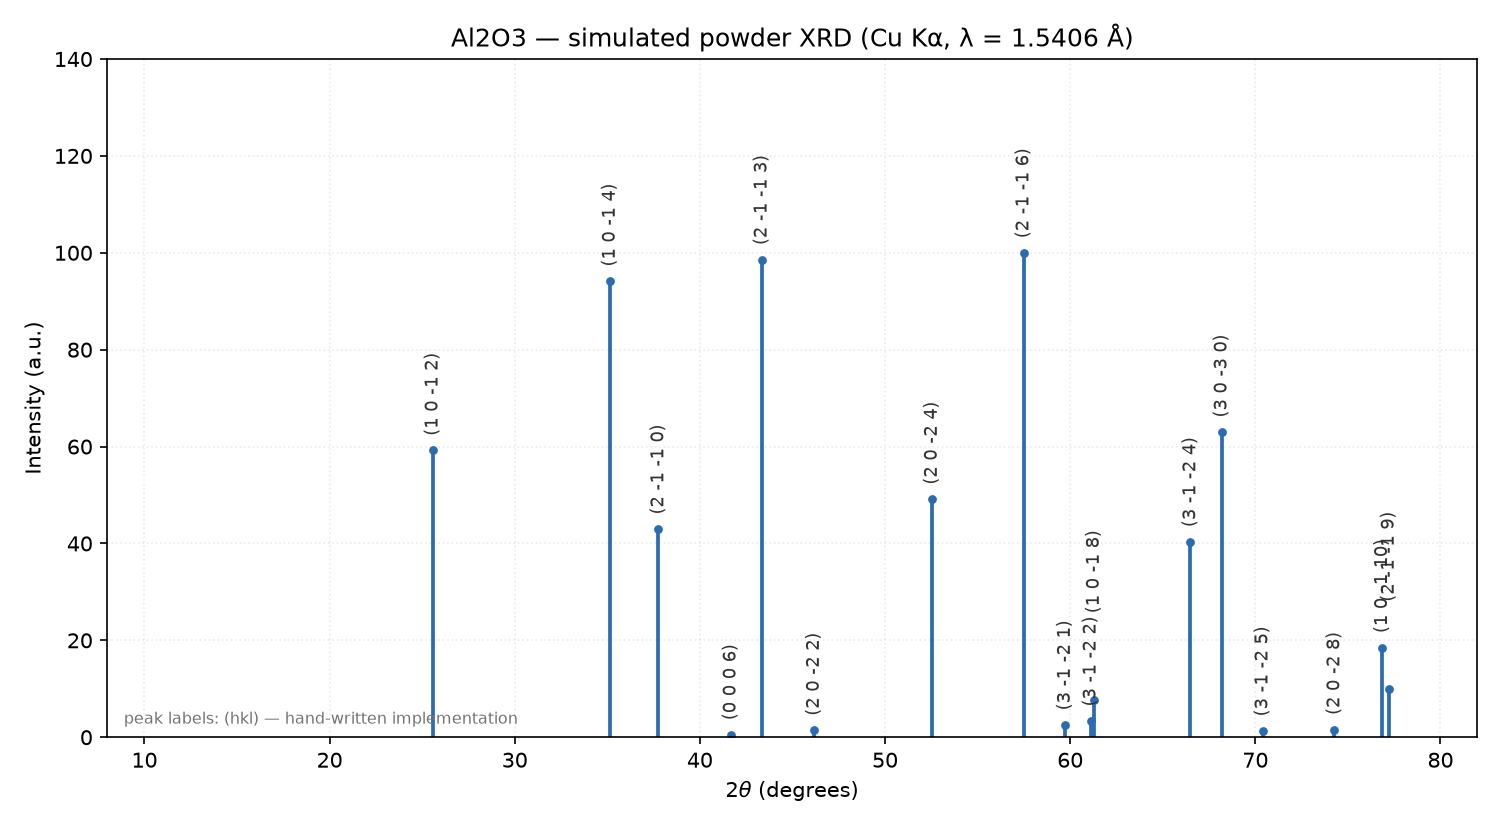
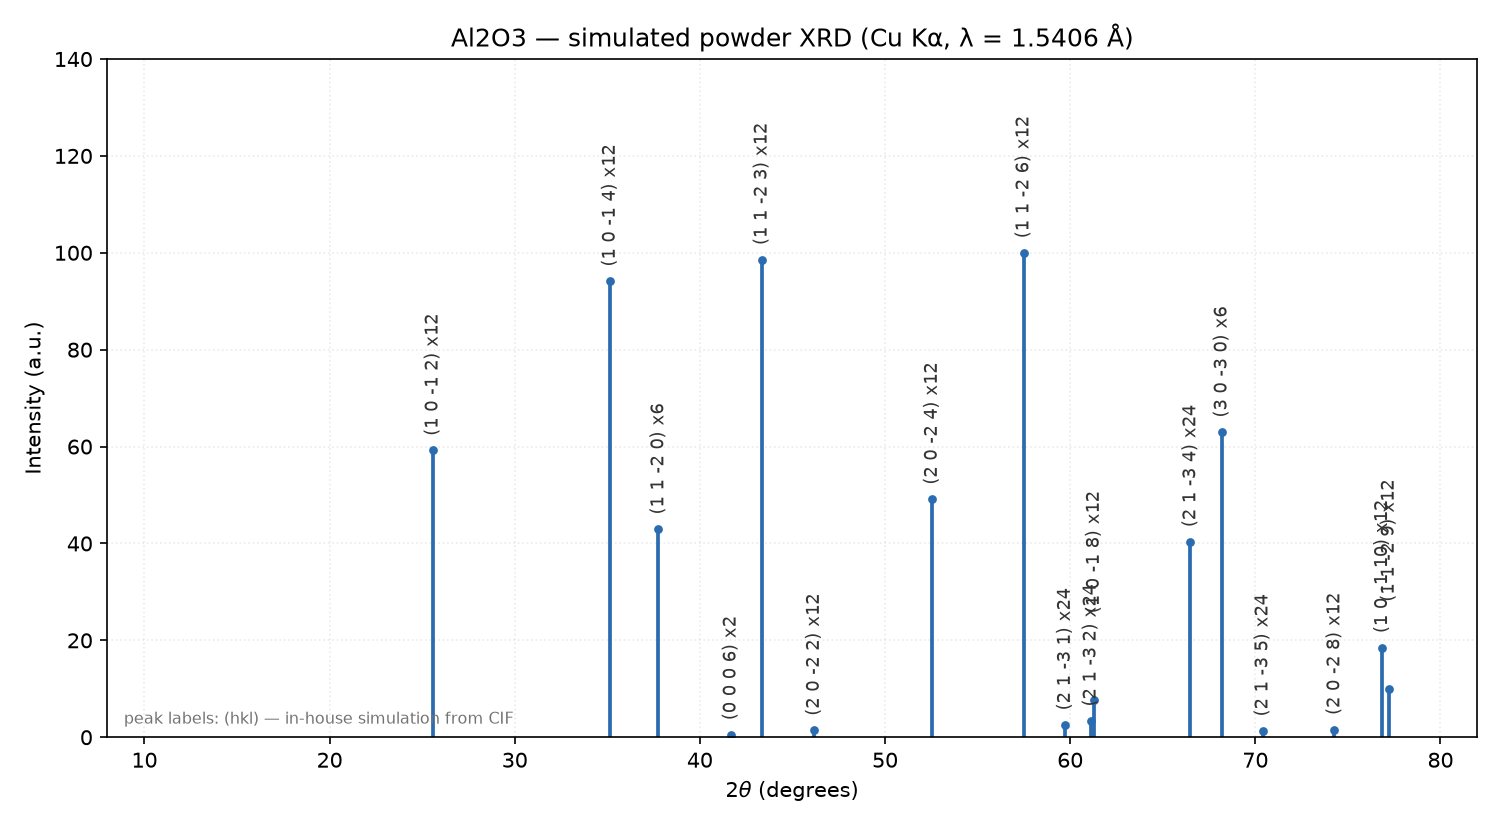
feat: the hexagonal labels take their conventional representatives, and --three-index writes card-style indices
- hexagonal display representatives now prefer h >= k >= 0 (110 / 113 / 116 / 214 / 300 — the most-cited card forms); the four-index labels improve along with them, cubic paths untouched
- format_hkls gains four_index=False: three-index card style ((104), (116)); multi-digit indices keep a space ((1 0 10)) so they stay unambiguous; the stale '(300)/(221) x6' docstring example corrected to the real output
- scripts/simulate_xrd.py: --three-index threads the switch through the peak table and the annotated plot
- plots.py: the corner note becomes 'peak labels: (hkl) — in-house simulation from CIF' (self-contained for outside readers)
- tests: 5 new (16 total) — conventional representatives on corundum, card-style formatting, multi-digit spacing, cubic unaffected
- showcase: final_xrd_{Si,LaB6,Al2O3}.png re-shot; Al2O3 also carries the new labels
- CHANGELOG [Unreleased] updated accordingly

diff --git a/src/xrd_toolkit/simulation/core.py b/src/xrd_toolkit/simulation/core.py
@@ -133,21 +133,50 @@ def _conventionalize_refs(refs):
     return [(groups[key][0], groups[key][1]) for key in order]
 
 
-def format_hkls(refs, is_hex):
-    """把 (代表 hkl, 多重性) 列表排成 '(111) x8'、'(300)/(221) x6' 式短文本。
+def format_hkls(refs, is_hex, four_index=True):
+    """把 (代表 hkl, 多重性) 列表排成 '(111) x8'、'(300) x6, (221) x24' 式短文本。
 
-    六方晶系写成四位指数 (h k i l)（i = -h-k），和晶体学表一致。
+    六方晶系默认写四位指数 (h k i l)（i = -h-k），和晶体学表一致；
+    four_index=False 时写三位 (hkl)（卡片常见的正指数写法，如 (104)、(116)）。
     """
     parts = []
     for (h, k, l), m in refs:
-        if is_hex:
+        if is_hex and four_index:
             s = f"({h} {k} {-h - k} {l})"
-        else:
+        elif all(abs(v) <= 9 for v in (h, k, l)):
             s = f"({h}{k}{l})"
+        else:                      # 两位数的指数留空格防歧义（如 1 0 10）
+            s = f"({h} {k} {l})"
         if m:
             s += f" x{m}"
         parts.append(s)
     return ", ".join(parts)
+
+
+# ---------------- 显示代表 ----------------
+
+def _positive_representative(orbit):
+    """"正半边"里最大的一个（其它晶系用；(111) 家族显示成 (111) 而不是 (1-11)）。"""
+    halves = [cand for cand in orbit
+              if cand[0] > 0 or (cand[0] == 0 and cand[1] > 0)
+              or (cand[0] == 0 and cand[1] == 0 and cand[2] > 0)]
+    return max(halves) if halves else max(orbit)   # 后者是非中心对称的兜底
+
+
+def _hex_representative(orbit):
+    """六方晶系的显示代表：优先 h ≥ k ≥ 0（并列取 l 大者）。
+
+    与晶体学表常用的正指数写法一致——(110)、(113)、(116)、(214)、(300) 等，
+    也是 PDF 卡片上最常见的行号形式。注意：同一族面在不同卡片里可能出现
+    等价但数字不同的写法（例如 (102) 与 (012)，2θ 相同），本函数只保证
+    自身一致，不逐字复刻某张特定卡片。找不到非负组合时退回正半边规则。
+    """
+    cands = [m for m in orbit if m[0] >= m[1] >= 0]
+    if not cands:
+        cands = [m for m in orbit if m[0] >= 0 and m[1] >= 0]
+    if cands:
+        return max(cands)          # 元组比较：先 h 再 k 再 l
+    return _positive_representative(orbit)
 
 
 # ---------------- 主流程 ----------------
@@ -183,12 +212,10 @@ def pattern_from_structure(structure, wavelength=1.5406, two_theta_range=(10.0, 
                 F = structure_factor((h, k, l), structure, s)
                 intensity = m * abs(F) ** 2 * lp_factor(theta)
 
-                # 报告用的代表：取"正的"那半边里最大的一个（这样 (111) 家族
-                # 显示成 (111) 而不是 (1-11)）
-                halves = [cand for cand in orbit
-                          if cand[0] > 0 or (cand[0] == 0 and cand[1] > 0)
-                          or (cand[0] == 0 and cand[1] == 0 and cand[2] > 0)]
-                rep = max(halves) if halves else max(orbit)  # 后者是非中心对称的兜底
+                # 报告用的代表：六方晶系取规范正指数写法（见 _hex_representative），
+                # 其它晶系取"正半边"里最大的（(111) 家族显示成 (111) 而不是 (1-11)）
+                rep = (_hex_representative(orbit) if is_hex
+                       else _positive_representative(orbit))
                 candidates.append((tt, intensity, rep, m))
 
     candidates.sort(key=lambda r: r[0])

diff --git a/scripts/simulate_xrd.py b/scripts/simulate_xrd.py
@@ -7,6 +7,7 @@
 用法示例：
     python scripts/simulate_xrd.py data/structures/Si_9008565.cif outputs/sim_xrd_Si.png
     python scripts/simulate_xrd.py ... --annotate             # 峰位标注 (hkl)
+    python scripts/simulate_xrd.py ... --annotate --three-index  # 六方三位指数（卡片写法）
     python scripts/simulate_xrd.py ... --wavelength 0.7093    # 换 Mo Kα
     python scripts/simulate_xrd.py ... --compare              # 两版对答案（不画图）
 """
@@ -41,12 +42,16 @@ def main() -> None:
     ap.add_argument("--two-theta", nargs=2, type=float, default=(10.0, 80.0),
                     metavar=("MIN", "MAX"))
     ap.add_argument("--annotate", action="store_true",
-                    help="在峰顶标注 (hkl)（六方用四位指数）")
+                    help="在峰顶标注 (hkl)（六方默认四位指数，--three-index 可切三位）")
+    ap.add_argument("--three-index", action="store_true",
+                    help="六方晶系峰写三位指数（如 (104)、(116)，与 PDF 卡片一致；"
+                         "默认四位 (h k i l)）")
     ap.add_argument("--pymatgen", action="store_true",
                     help="改用 pymatgen XRDCalculator 参考实现")
     ap.add_argument("--compare", action="store_true",
                     help="打印手写版与 pymatgen 版的逐峰偏差（不画图）")
     args = ap.parse_args()
+    four_index = not args.three_index
 
     structure = core.load_structure(args.cif)
     print(f"material  : {structure.composition.reduced_formula}")
@@ -79,12 +84,13 @@ def main() -> None:
     print("-" * 62)
     print(f"{'2theta(deg)':>11} {'I(%)':>6}   hkl x multiplicity")
     for tt, inten, refs in peaks:
-        print(f"{tt:11.3f} {inten:6.1f}   {core.format_hkls(refs, is_hex)}")
+        print(f"{tt:11.3f} {inten:6.1f}   {core.format_hkls(refs, is_hex, four_index)}")
 
     title = (f"{structure.composition.reduced_formula} — simulated XRD "
              f"(λ = {args.wavelength:.4f} Å)")
     if args.annotate:
-        plots.plot_annotated(two_thetas, intensities, peaks, is_hex, title, args.out)
+        plots.plot_annotated(two_thetas, intensities, peaks, is_hex, title, args.out,
+                             four_index=four_index)
     else:
         plots.plot_pattern(two_thetas, intensities, title, args.out)
     print(f"saved: {args.out}")

diff --git a/tests/test_simulation.py b/tests/test_simulation.py
@@ -6,6 +6,8 @@
   - 金刚石结构消光：(200)、(222) 的 |F|² 为 0，(111)、(220) 显著非零；
   - 散射因子自检 f(s=0) = 原子序数；
   - 多重性：Si (111) 轨道 8 个、LaB₆ (100) 轨道 6 个；
+  - 指数代表与排版：刚玉取 h≥k≥0 规范写法（110 / 113 / 116 / 214 / 300）；
+    六方标签默认四位，可切三位卡片式；
   - 手写版与 pymatgen 版三个材料逐峰一致（峰数相等、2θ 偏差 < 1e-3°）。
 
 运行：python -m unittest tests.test_simulation -v（或 scripts/run_tests.py）。
@@ -105,6 +107,44 @@ class TestManualMatchesPymatgen(unittest.TestCase):
 
     def test_al2o3(self):
         self._check("Al2O3_1000032.cif")
+
+
+class TestHexRepresentatives(unittest.TestCase):
+    """刚玉的显示代表面取规范正指数写法（与 PDF 卡片常见行号一致）。"""
+
+    @classmethod
+    def setUpClass(cls):
+        _, _, cls.peaks, _ = core.pattern_from_cif(
+            STRUCT_DIR / "Al2O3_1000032.cif", CU_KA, (10.0, 80.0))
+
+    def _rep_at(self, two_theta):
+        peak = min(self.peaks, key=lambda p: abs(p[0] - two_theta))
+        return peak[2][0][0]
+
+    def test_conventional_representatives(self):
+        expect = {35.140: (1, 0, 4), 37.764: (1, 1, 0), 43.340: (1, 1, 3),
+                  57.481: (1, 1, 6), 66.495: (2, 1, 4), 68.185: (3, 0, 0)}
+        for tt, hkl in expect.items():
+            self.assertEqual(self._rep_at(tt), hkl)
+
+
+class TestHklFormatting(unittest.TestCase):
+    """峰位标签排版：六方默认四位 (h k i l)；三位模式写卡片式正指数；立方不受影响。"""
+
+    def test_hex_four_index_default(self):
+        self.assertEqual(core.format_hkls([((1, 1, 6), 12)], True), "(1 1 -2 6) x12")
+
+    def test_hex_three_index_card_style(self):
+        self.assertEqual(core.format_hkls([((1, 1, 6), 12)], True, four_index=False),
+                         "(116) x12")
+
+    def test_three_index_multi_digit_keeps_spaces(self):
+        self.assertEqual(core.format_hkls([((1, 0, 10), 12)], True, four_index=False),
+                         "(1 0 10) x12")
+
+    def test_cubic_three_index_unchanged(self):
+        self.assertEqual(core.format_hkls([((1, 1, 1), 8)], False, four_index=False),
+                         "(111) x8")
 
 
 if __name__ == "__main__":

diff --git a/src/xrd_toolkit/simulation/plots.py b/src/xrd_toolkit/simulation/plots.py
@@ -4,7 +4,7 @@
 
 - `plot_pattern`：竖线（棒状）谱图。理论峰是无限窄的，模拟谱的标准画法
   就是一排竖线；
-- `plot_annotated`：在每根峰上方竖排标注 (hkl)（六方用四位指数 hkil），
+- `plot_annotated`：在每根峰上方竖排标注 (hkl)（六方默认四位 hkil，可切三位卡片式），
   相邻标签过近时自动抬高一档，避免叠字。
 """
 import matplotlib
@@ -34,10 +34,12 @@ def plot_pattern(two_thetas, intensities, title, out_path):
     return out_path
 
 
-def plot_annotated(two_thetas, intensities, peaks, is_hex, title, out_path):
+def plot_annotated(two_thetas, intensities, peaks, is_hex, title, out_path,
+                   four_index=True):
     """带 (hkl) 标注的谱图（第六周最终交付图的画法）。
 
-    peaks 用 core.pattern_from_structure 返回的峰表（含代表 hkl 与多重性）。
+    peaks 用 core.pattern_from_structure 返回的峰表（含代表 hkl 与多重性）；
+    four_index=False 时六方晶系改用三位指数（如 (104)），与 PDF 卡片行号对照方便。
     返回输出路径。
     """
     fig, ax = plt.subplots(figsize=(10, 5.5))
@@ -53,7 +55,7 @@ def plot_annotated(two_thetas, intensities, peaks, is_hex, title, out_path):
             last_x.append(tt)
         else:
             last_x[tier] = tt
-        ax.text(tt, ii + 3 + tier * TIER_GAP, format_hkls(refs, is_hex),
+        ax.text(tt, ii + 3 + tier * TIER_GAP, format_hkls(refs, is_hex, four_index),
                 rotation=90, ha="center", va="bottom",
                 fontsize=8.5, color="#333333")
 
@@ -62,7 +64,7 @@ def plot_annotated(two_thetas, intensities, peaks, is_hex, title, out_path):
     ax.set_xlabel(r"2$\theta$ (degrees)")
     ax.set_ylabel("Intensity (a.u.)")
     ax.set_title(title)
-    ax.text(0.012, 0.02, "peak labels: (hkl) — hand-written implementation",
+    ax.text(0.012, 0.02, "peak labels: (hkl) — in-house simulation from CIF",
             transform=ax.transAxes, ha="left", fontsize=7.5, color="0.45")
     ax.grid(alpha=0.25, linestyle=":")
     fig.tight_layout()

diff --git a/CHANGELOG.md b/CHANGELOG.md
@@ -13,10 +13,15 @@
   （max Δ2θ = 0.0000°）
 - **新增命令行入口** `scripts/simulate_xrd.py`：出谱图、`--annotate` 峰位 (hkl)
   标注、`--wavelength` 换波长、`--compare` 现场复核两版一致
+- 峰位指数排版：六方晶系显示代表取规范正指数写法（h ≥ k ≥ 0，如 (110)、(113)、
+  (116)、(214)，与 PDF 卡片常见行号一致；同族面个别卡片写法可能有等价差异，2θ 相同）；
+  新增 `--three-index` 把峰位标签切到三位指数（如 (104)），与卡片逐行互查更方便，
+  默认仍是四位 `(h k i l)`；谱图左下角说明改为 "in-house simulation from CIF"（对外自足写法）
 - 参考结构入库 `data/structures/`（COD 公有领域）；展示图入库 `showcase/simulation/`
 - 依赖：模拟功能走可选依赖 `pip install 'xrd-toolkit[simulation]'`（pymatgen），
   主程序不受影响
-- 单元测试 11 项：峰位 / 波长效应 / 消光 / 散射因子自检 / 多重性 / 两版一致性
+- 单元测试 16 项：峰位 / 波长效应 / 消光 / 散射因子自检 / 多重性 / 指数代表与排版 /
+  两版一致性
 
 ## [0.1.3] — 2026-10-10
 
